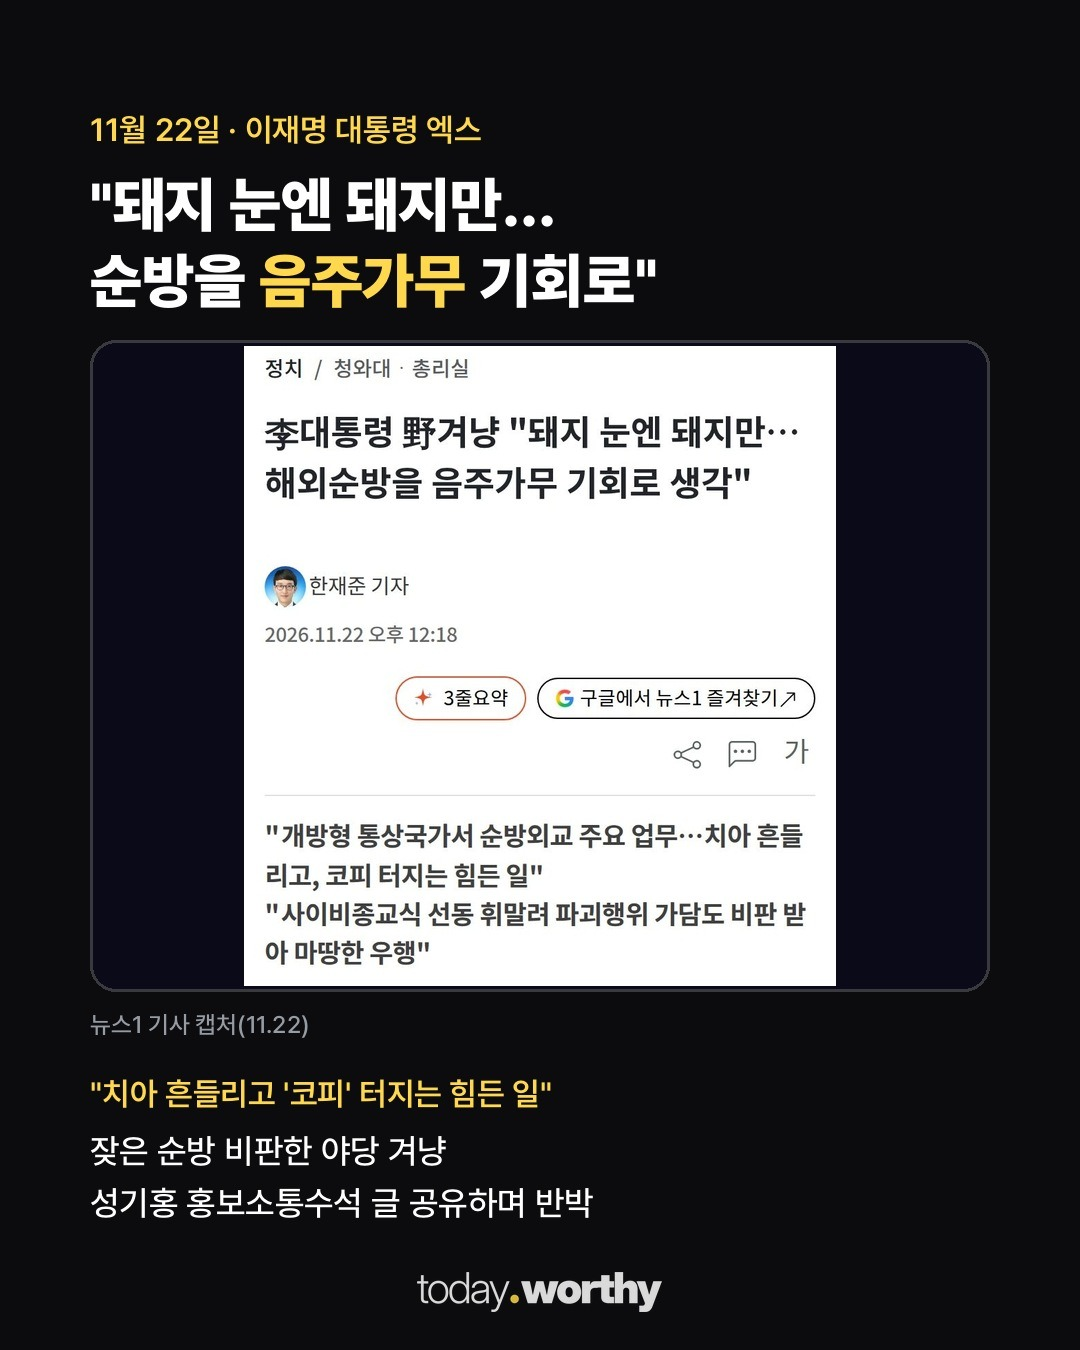
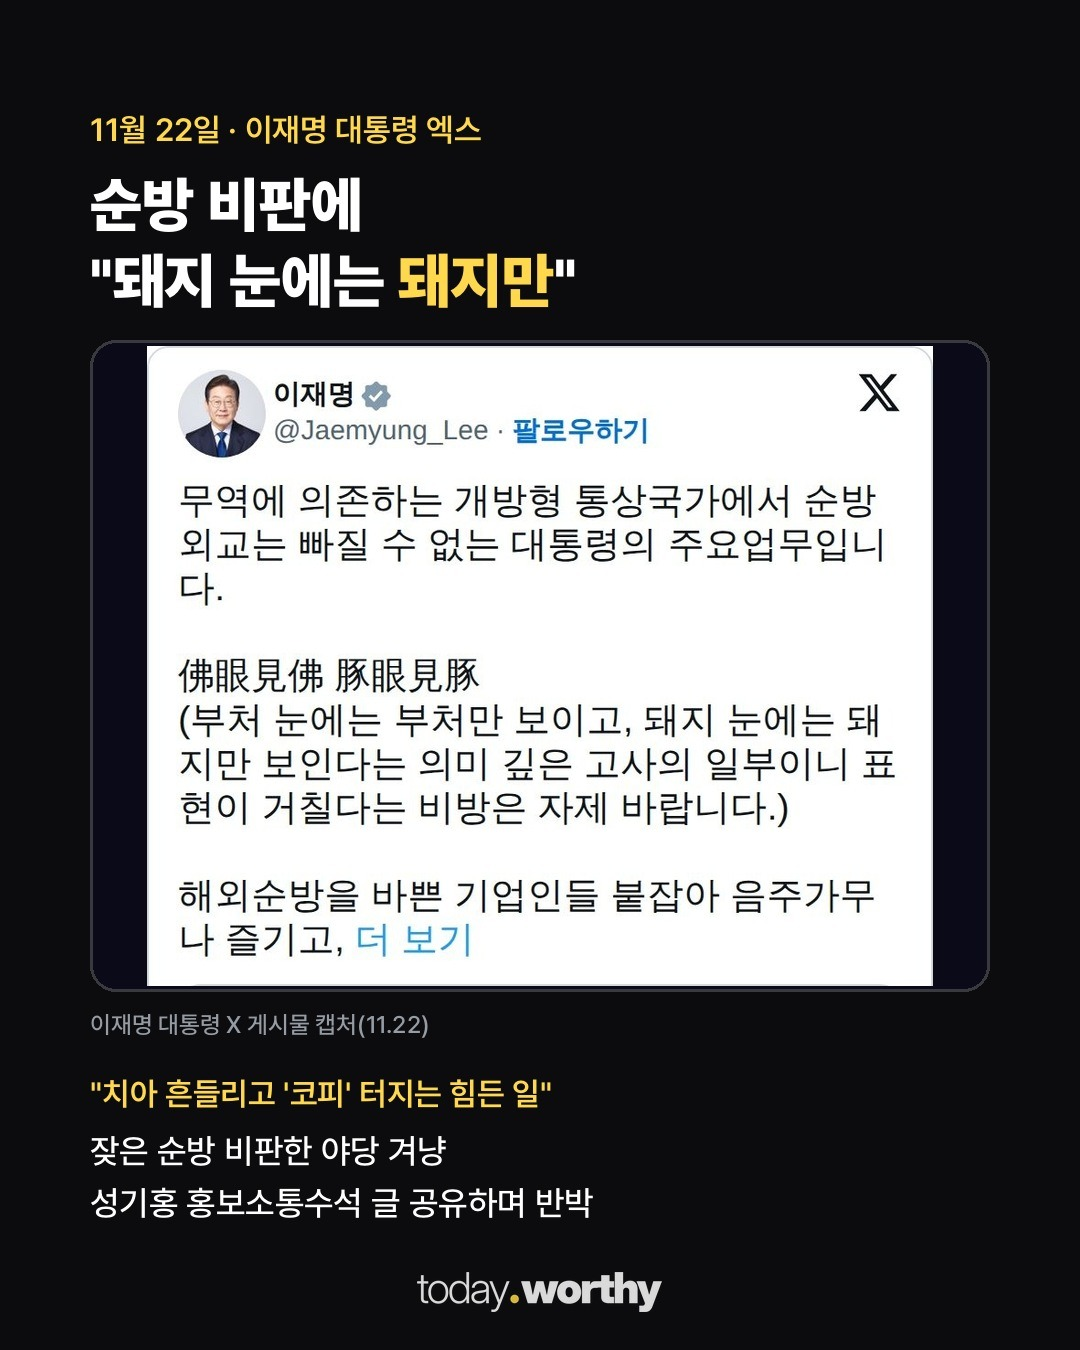
pigeye: 2장 대통령 22일 X 실제 캡처로 교체
Claude-Session: https://claude.ai/code/session_01FGsw5QnWxFUsnopcB1Czie

Changed region(s): [[0.0611, 0.1244, 0.8861, 0.7778]]

diff --git a/media/20261122-pigeye/build_cards.py b/media/20261122-pigeye/build_cards.py
@@ -63,11 +63,11 @@ frame(("22일 이재명 대통령 엑스", "\"불안견불 '돈안견돈'\""),
              ("덧붙임", "\"표현이 거칠다는 '비방은 자제' 바란다\"")], h=640),
       "\"임기 초 순방은 꼭 해야 할 '국정과제'\"", "이재명 대통령 X 게시글(11.22)").save(O / "c02.jpg", quality=93)
 
-op(O / "news1.jpg").crop((0, 280, 860, 1210)).save(O / "cap_news1.jpg", quality=95)
+op(O / "xtoday.jpg").crop((0, 0, 860, 700)).save(O / "cap_xtoday.jpg", quality=95)
 op(O / "xoct.jpg").crop((0, 0, 860, 1250)).save(O / "cap_xoct.jpg", quality=95)
 spec = [
-    {"out": str(O / "c01x.jpg"), "sub": "11월 22일 · 이재명 대통령 엑스", "title": "\"돼지 눈엔 돼지만…\n순방을 '음주가무' 기회로\"",
-     "cap": str(O / "cap_news1.jpg"), "caption": "뉴스1 기사 캡처(11.22)", "cap_max_h": 640,
+    {"out": str(O / "c01x.jpg"), "sub": "11월 22일 · 이재명 대통령 엑스", "title": "순방 비판에\n\"돼지 눈에는 '돼지만'\"",
+     "cap": str(O / "cap_xtoday.jpg"), "caption": "이재명 대통령 X 게시물 캡처(11.22)", "cap_max_h": 640,
      "label": "\"치아 흔들리고 '코피' 터지는 힘든 일\"",
      "lines": ["잦은 순방 비판한 야당 겨냥", "성기홍 홍보소통수석 글 공유하며 반박"]},
     {"out": str(O / "c03.jpg"), "sub": "처음이 아니다 · 10월 31일 엑스", "title": "한 달 전에도\n'같은 말'",
